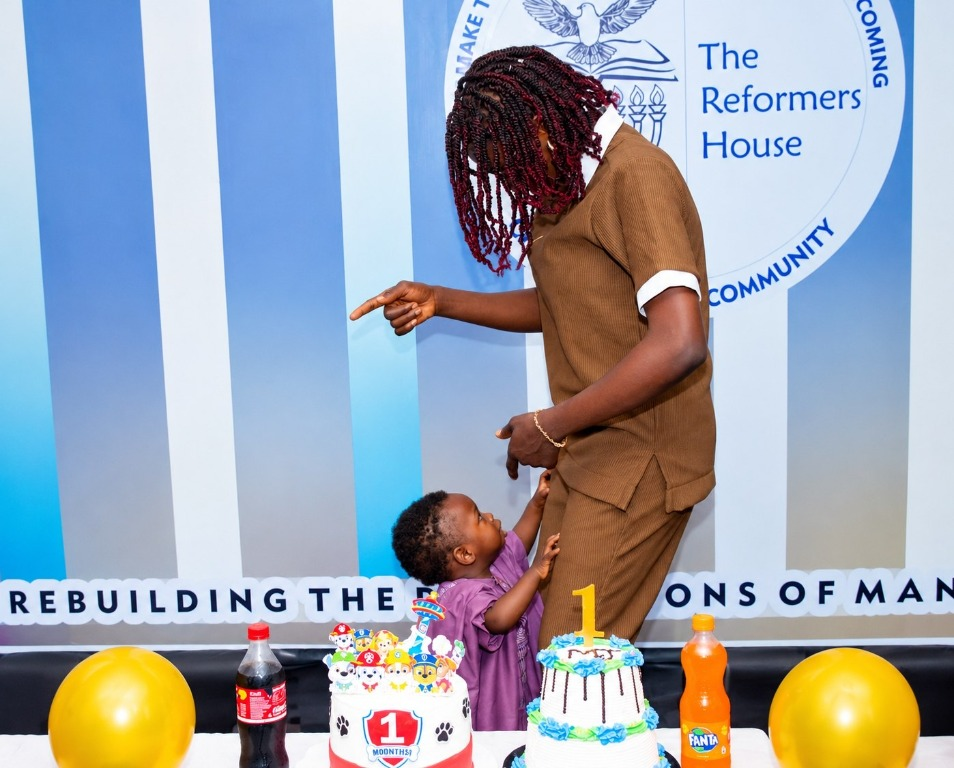
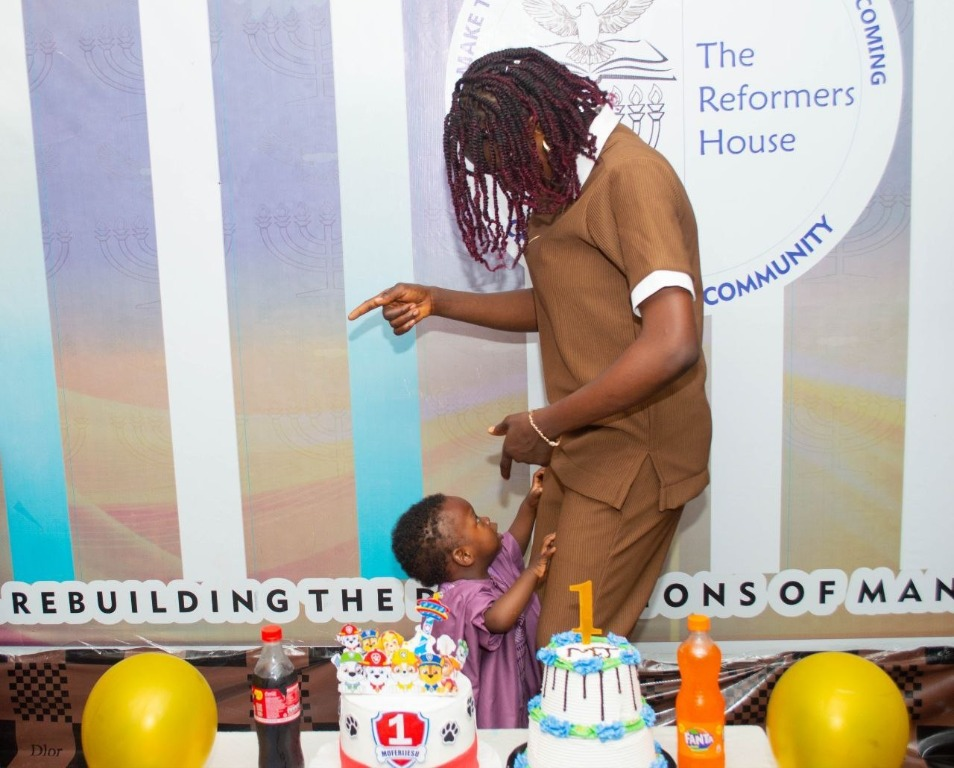
Refresh birthday photos and page presentation

diff --git a/css/style.css b/css/style.css
@@ -37,8 +37,8 @@ button:focus-visible, a:focus-visible { outline: 3px solid #b99a5e; outline-offs
 .eyebrow { color: #92784a; font-size: .67rem; letter-spacing: .19em; line-height: 1.6; font-weight: 600; margin: 0 0 1rem; }
 .intro h1 { color: var(--green); font-family: var(--serif); font-size: clamp(3.4rem, 11vw, 7rem); font-weight: 500; letter-spacing: -.055em; line-height: 1.02; margin: 0; }
 h1 em, h2 em { color: var(--gold); font-weight: 400; }
-.intro-portrait { width: clamp(130px, 19vw, 185px); aspect-ratio: .8; margin: 1rem auto .15rem; padding: 5px; border-radius: 90px 90px 5px 5px; box-shadow: 0 14px 28px rgba(23,61,50,.16); }
-.intro-portrait.photo-frame img { object-fit: cover; object-position: center 30%; border-radius: 85px 85px 2px 2px; background: #080707; }
+.intro-portrait { display: grid; place-items: center; width: clamp(130px, 19vw, 185px); aspect-ratio: .8; margin: 1rem auto .15rem; padding: 5px; border-radius: 90px 90px 5px 5px; box-shadow: 0 14px 28px rgba(23,61,50,.16); }
+.intro-portrait.photo-frame img { width: 100%; height: 100%; max-width: none; max-height: none; object-fit: cover; object-position: center 28%; border-radius: 85px 85px 2px 2px; background: #080707; }
 .intro-subtitle { font-family: var(--serif); color: var(--green); font-size: clamp(1.1rem, 3vw, 1.65rem); margin: .5rem 0 .3rem; }
 .intro-copy { color: #686a62; max-width: 440px; line-height: 1.85; font-size: .96rem; margin: .4rem auto 1.7rem; }
 .primary-button { background: var(--green); color: #fffdf7; border: 1px solid var(--green); border-radius: 3px; padding: .95rem 1.4rem; min-height: 48px; cursor: pointer; letter-spacing: .015em; transition: transform .25s, background .25s, box-shadow .25s; box-shadow: 0 8px 20px rgba(23,61,50,.13); }
@@ -140,6 +140,16 @@ blockquote cite { display: block; font-family: var(--sans); color: #9a8052; font
 .missing-image { display: flex; align-items: center; justify-content: center; min-height: 130px; background: repeating-linear-gradient(135deg, #eee6d7, #eee6d7 12px, #f7f2e8 12px, #f7f2e8 24px); }
 .image-placeholder { padding: 1rem; color: #74664e; font-size: .75rem; text-align: center; line-height: 1.5; }
 @keyframes photo-breathe { from { transform: scale(.97); } to { transform: scale(1); } }
+.reveal-word { display: inline-block; opacity: 0; }
+.page.is-current .reveal-word {
+  animation: write-in .5s ease both;
+  animation-delay: calc(var(--word-index, 0) * 65ms);
+}
+.page.has-revealed .reveal-word { opacity: 1; }
+@keyframes write-in {
+  from { opacity: 0; transform: translateY(.28em); filter: blur(2px); }
+  to { opacity: 1; transform: translateY(0); filter: blur(0); }
+}
 @media (max-width: 560px), (max-height: 500px) and (orientation: landscape) {
   html, body { width: 100%; height: 100%; overflow: hidden; overscroll-behavior: none; }
   .experience { display: flex; flex-direction: column; width: 100%; height: 100vh; height: 100svh; min-height: 0; }
@@ -150,7 +160,7 @@ blockquote cite { display: block; font-family: var(--sans); color: #9a8052; font
   .intro-ornament { margin-bottom: .4rem; font-size: 1.4rem; }
   .intro .eyebrow { margin-bottom: .45rem; }
   .intro h1 { font-size: clamp(3rem, 12vw, 4.3rem); }
-  .intro-portrait { width: 108px; aspect-ratio: .82; margin: .45rem auto .05rem; padding: 4px; }
+  .intro-portrait { width: 108px; aspect-ratio: .8; margin: .45rem auto .05rem; padding: 4px; }
   .intro-subtitle { margin: .3rem 0 .1rem; font-size: clamp(1rem, 4.7vw, 1.35rem); }
   .intro-copy { max-width: 330px; margin: .2rem auto .55rem; font-size: .82rem; line-height: 1.45; }
   .primary-button { min-height: 44px; padding: .7rem 1.1rem; }
@@ -176,6 +186,8 @@ blockquote cite { display: block; font-family: var(--sans); color: #9a8052; font
   .signature { font-size: .78rem; margin-top: .35rem; }
   .credits-mark { font-size: 1.4rem; margin-bottom: .35rem; }
   .gold-divider { margin: .55rem auto; }
+  .credits-page .page-content h2 { font-size: clamp(1rem, 4.8vw, 1.4rem); }
+  .credits-page .page-content p:not(.eyebrow):not(.credits-signature):not(.credits-small) { font-size: .66rem; line-height: 1.3; }
   .credits-signature { font-size: 1.05rem; margin: .3rem 0; }
   .credits-small { font-size: .49rem; margin-top: .35rem; }
   .text-button { min-height: 38px; margin-top: .3rem; padding: .35rem .2rem; font-size: .7rem; }
@@ -195,6 +207,9 @@ blockquote cite { display: block; font-family: var(--sans); color: #9a8052; font
   .page-content { padding-inline: .58rem; }
   .page-content h2 { font-size: 1.1rem; }
   .caption { font-size: .62rem; }
+}
+@media (prefers-reduced-motion: reduce) {
+  .reveal-word { opacity: 1 !important; animation: none !important; }
 }
 @media (max-height: 500px) and (orientation: landscape) {
   .reader:not(.hidden) { grid-template-rows: 0 minmax(0, 1fr) auto; }

diff --git a/index.html b/index.html
@@ -104,7 +104,7 @@
             <div class="page-content">
               <p class="eyebrow">CHAPTER THREE</p>
               <h2>The gift of <em>family.</em></h2>
-              <div class="photo-frame landscape-frame"><img src="assets/family.jpg" alt="Momress with Shepo and Moferejesu" width="1152" height="768" loading="lazy"></div>
+              <div class="photo-frame landscape-frame"><img src="assets/family.jpg" alt="Momress, Shepo, and Moferejesu together" width="1152" height="768" loading="lazy"></div>
               <p class="caption">The little moments, shared laughter, and memories you make together are gifts to treasure today and always.</p>
             </div>
             <span class="page-number">05</span>
@@ -114,7 +114,7 @@
             <div class="page-content">
               <p class="eyebrow">CHAPTER FOUR</p>
               <h2>A love to <em>treasure.</em></h2>
-              <div class="photo-frame portrait-frame"><img src="assets/couple.jpg" alt="Momress and her husband Shepo sharing an affectionate moment" width="768" height="1152" loading="lazy"></div>
+              <div class="photo-frame portrait-frame"><img src="assets/couple.jpg" alt="Momress kissing her husband Shepo on the cheek" width="768" height="1152" loading="lazy"></div>
               <p class="caption">Here's to the love you share, the memories you have made, and all the happy chapters still to come.</p>
             </div>
             <span class="page-number">06</span>
@@ -124,7 +124,7 @@
             <div class="page-content">
               <p class="eyebrow">CHAPTER FIVE</p>
               <h2>The joy of <em>motherhood.</em></h2>
-              <div class="photo-frame landscape-frame"><img src="assets/birthday.jpg" alt="Momress at Moferejesu's first birthday celebration" width="954" height="768" loading="lazy"></div>
+              <div class="photo-frame landscape-frame"><img src="assets/birthday.jpg" alt="Momress and Moferejesu dancing at his first birthday celebration" width="954" height="768" loading="lazy"></div>
               <p class="caption">The love and tenderness in this memory say so much. May motherhood bring you many more moments to cherish.</p>
             </div>
             <span class="page-number">07</span>
@@ -142,14 +142,14 @@
             <span class="page-number">08</span>
           </article>
 
-          <article class="page credits-page" data-page="9" aria-label="Birthday closing note">
+          <article class="page credits-page" data-page="9" aria-label="Media Team dedication">
             <div class="page-content centered">
               <div class="credits-mark" aria-hidden="true">✦</div>
-              <p class="eyebrow">ONE LAST WISH</p>
-              <h2>May your birthday be as lovely as <em>you.</em></h2>
+              <p class="eyebrow">WITH LOVE AND APPRECIATION</p>
+              <h2>Prepared on behalf of the <em>Media Team</em></h2>
               <div class="gold-divider"></div>
-              <p>Thank you for being you. We hope this little book brings a smile to your face today and reminds you that you are cherished.</p>
-              <p class="credits-signature">Happy Birthday, Momress!</p>
+              <p>With heartfelt appreciation and prayers for a grace-filled year ahead.</p>
+              <p class="credits-signature">The Media Team</p>
               <p class="credits-small">Celebrating Momress · A birthday keepsake</p>
               <button class="text-button" id="back-to-cover" type="button">Read your birthday wishes again ↶</button>
             </div>

diff --git a/js/script.js b/js/script.js
@@ -19,8 +19,9 @@
 
   const labels = ["Cover", "Birthday note", "A life worth celebrating", "Beautiful in every season",
     "Grace for the journey", "The gift of family", "A love to treasure", "The joy of motherhood",
-    "Birthday blessing", "One last wish"];
+    "Birthday blessing", "Media Team dedication"];
   let currentPage = 0;
+  let revealedPage = null;
   let busy = false;
   let turningPage = null;
   let startX = null;
@@ -37,17 +38,55 @@
     corner.className = "page-corner";
     corner.setAttribute("aria-hidden", "true");
     page.append(corner);
+
+    const content = page.querySelector(".page-content, .cover-inner");
+    if (content) {
+      const textNodes = document.createTreeWalker(content, NodeFilter.SHOW_TEXT);
+      const nodes = [];
+      while (textNodes.nextNode()) {
+        if (textNodes.currentNode.textContent.trim()) nodes.push(textNodes.currentNode);
+      }
+      let wordIndex = 0;
+      nodes.forEach(node => {
+        const fragment = document.createDocumentFragment();
+        node.textContent.split(/(\s+)/).forEach(part => {
+          if (!part) return;
+          if (/^\s+$/.test(part)) {
+            fragment.append(document.createTextNode(part));
+            return;
+          }
+          const word = document.createElement("span");
+          word.className = "reveal-word";
+          word.style.setProperty("--word-index", String(wordIndex++));
+          word.textContent = part;
+          fragment.append(word);
+        });
+        node.replaceWith(fragment);
+      });
+    }
   });
 
   function renderState() {
     pages.forEach((page, index) => {
       const flipped = index < currentPage;
       page.classList.toggle("flipped", flipped);
+      page.classList.toggle("is-current", index === currentPage);
       const stackOrder = flipped ? index + 1 : pages.length - index + 10;
       page.style.zIndex = String(index === turningPage ? pages.length + 20 : stackOrder);
       page.setAttribute("aria-hidden", flipped ? "true" : "false");
       page.inert = flipped;
     });
+    if (revealedPage !== currentPage) {
+      const previousPage = pages[revealedPage];
+      if (previousPage) previousPage.classList.add("has-revealed");
+      revealedPage = currentPage;
+      const activePage = pages[currentPage];
+      if (activePage) {
+        activePage.classList.remove("has-revealed");
+        activePage.classList.remove("is-current");
+        window.requestAnimationFrame(() => activePage.classList.add("is-current"));
+      }
+    }
     prevButton.disabled = currentPage === 0 || busy;
     nextButton.disabled = currentPage === pages.length - 1 || busy;
     pageCount.textContent = `${labels[currentPage]} · ${currentPage}/${pages.length - 1}`;
@@ -55,7 +94,7 @@
     nextButton.querySelector("span").textContent = currentPage === pages.length - 2 ? "Finish book" : "Turn page";
     if (currentPage === pages.length - 1) {
       nextButton.disabled = true;
-      pageCount.textContent = "One last wish · Final page";
+      pageCount.textContent = "Media Team dedication · Final page";
     }
   }
 
